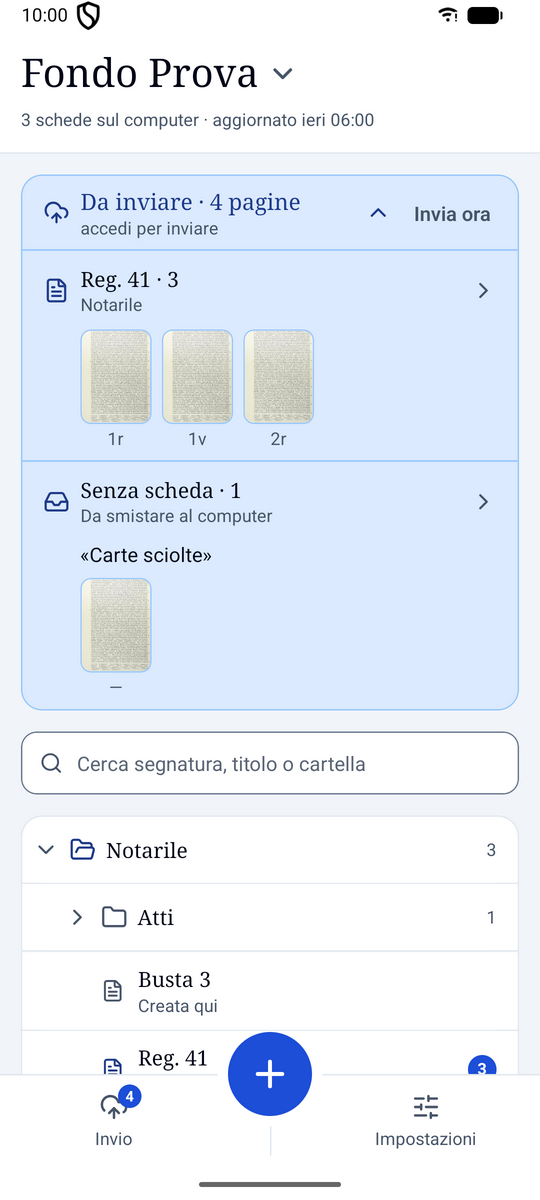
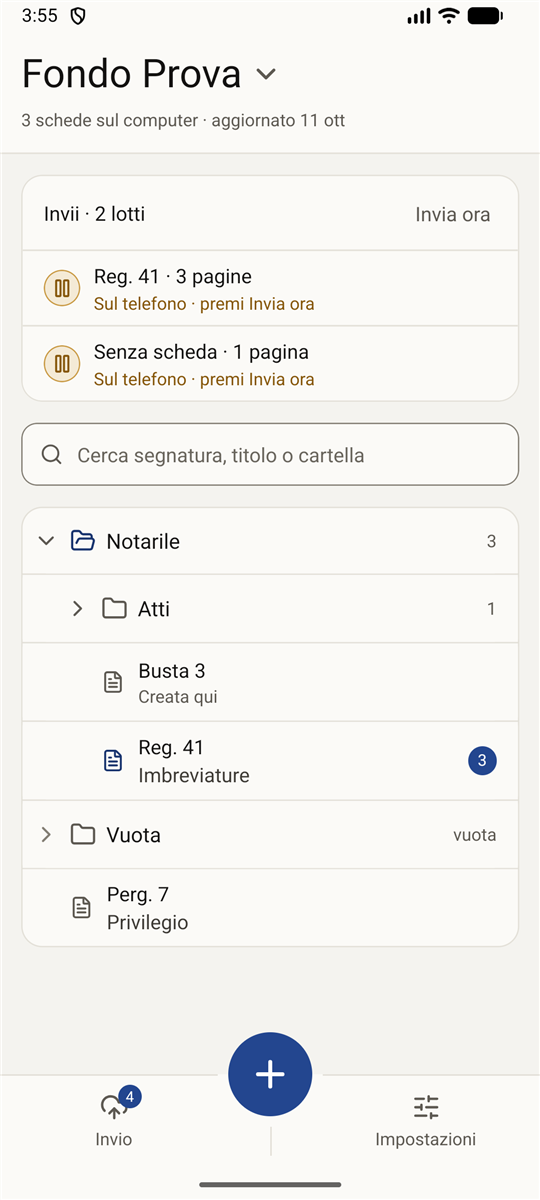
wiki: 4.0.2 e ArchiScanner 0.4.3: cambio account, stato della trascrizione, anteprima del modello, riquadro Invii e invio solo manuale, schermate del telefono aggiornate

diff --git a/docs/wiki/en/archiscanner/scanning.md b/docs/wiki/en/archiscanner/scanning.md
@@ -6,8 +6,8 @@ The main screen shows the folder tree, like the computer's sidebar, empty folder
 Each record shows its shelfmark and, below it, the same secondary line you see on the computer
 (the notary, the author, the title). Folders you open stay open next time.
 
-![The archive on the phone: the «Da inviare» box, the search field and the folder tree with its records](/img/telefono-archivio.png){.light-only .telefono}
-![The archive on the phone: the «Da inviare» box, the search field and the folder tree with its records](/img/telefono-archivio-scuro.png){.dark-only .telefono}
+![The archive on the phone: the «Invii» box, the search field and the folder tree with its records](/img/telefono-archivio.png){.light-only .telefono}
+![The archive on the phone: the «Invii» box, the search field and the folder tree with its records](/img/telefono-archivio-scuro.png){.dark-only .telefono}
 
 The search filters the tree by shelfmark, title or folder: only folders with a match remain,
 already open. The dot next to a record says how many of its pages are still on the phone,
@@ -111,21 +111,32 @@ sent, cannot be moved.
 
 ## Sending
 
-The **Da inviare** (To send) box at the top of the archive counts the pages still on the phone.
-Tap it to see them grouped by record.
+Pages leave **only when you decide**: with the send button at the bottom or with **Invia ora**
+(Send now) in the **Invii** (Uploads) box at the top of the archive. A scan you have just saved
+stays on the phone. On mobile data the app asks for confirmation first, because a day in the
+archive can add up to a few hundred megabytes.
 
-![The «Da inviare» box open: pages waiting, grouped by record, and those without a record](/img/telefono-da-inviare.png){.light-only .telefono}
-![The «Da inviare» box open: pages waiting, grouped by record, and those without a record](/img/telefono-da-inviare-scuro.png){.dark-only .telefono}
+![The «Invii» box: one batch per row, each with its status](/img/telefono-da-inviare.png){.light-only .telefono}
+![The «Invii» box: one batch per row, each with its status](/img/telefono-da-inviare-scuro.png){.dark-only .telefono}
 
-Automatic sending starts **only on Wi-Fi**, because a day in the archive can add up to a few
-hundred megabytes. On mobile data the pages wait; if you need them now, use **Invia ora** (Send
-now). The switch is in **Impostazioni → Invio** (Settings → Sending).
+The **Invii** box shows one row per batch, with its status:
 
-Sending only runs while the app is open. If Android closes it halfway, it picks up again from
-the pages that had not arrived yet when you reopen it.
+- **Sul telefono · premi Invia ora** (On the phone · tap Send now): not sent yet;
+- **In caricamento su Drive · n di m** (Uploading to Drive · n of m): the pages are going up;
+- **Su Drive · in attesa del computer** (On Drive · waiting for the computer): it arrives when the
+  computer with ArchiView is on and receives the scans;
+- **Arrivato sul computer** (Arrived on the computer): the computer has imported them. The row
+  stays visible for a day.
 
-![The app settings: Google account, send only on Wi-Fi, what to do after sending, direct Wi-Fi](/img/telefono-impostazioni.png){.light-only .telefono}
-![The app settings: Google account, send only on Wi-Fi, what to do after sending, direct Wi-Fi](/img/telefono-impostazioni-scuro.png){.dark-only .telefono}
+In the record, the **Dove sono le pagine** (Where the pages are) section shows the same steps, and
+thumbnails that have left carry an **On Drive** label. The first upload to an archive may take the
+computer a few minutes; later uploads arrive sooner.
+
+Sending only runs while the app is open. If Android closes it halfway, press send again after
+reopening it: it picks up from the pages that had not arrived yet.
+
+![The app settings: Google account, what to do after sending, direct Wi-Fi](/img/telefono-impostazioni.png){.light-only .telefono}
+![The app settings: Google account, what to do after sending, direct Wi-Fi](/img/telefono-impostazioni-scuro.png){.dark-only .telefono}
 
 **Dopo l'invio** (After sending) decides what stays on the phone: pages are deleted at once (the
 default), kept for a number of days, or kept for good. Kept pages appear in the record as sent,

diff --git a/docs/wiki/archiscanner/scansionare.md b/docs/wiki/archiscanner/scansionare.md
@@ -7,8 +7,8 @@ cartelle vuote comprese. Ogni scheda ha la segnatura e, sotto, la stessa riga se
 vedi sul computer (il notaio, l'autore, il titolo). Le cartelle che apri restano aperte alla
 volta successiva.
 
-![L'archivio sul telefono: il riquadro «Da inviare», la ricerca e l'albero delle cartelle con le schede](/img/telefono-archivio.png){.light-only .telefono}
-![L'archivio sul telefono: il riquadro «Da inviare», la ricerca e l'albero delle cartelle con le schede](/img/telefono-archivio-scuro.png){.dark-only .telefono}
+![L'archivio sul telefono: il riquadro «Invii», la ricerca e l'albero delle cartelle con le schede](/img/telefono-archivio.png){.light-only .telefono}
+![L'archivio sul telefono: il riquadro «Invii», la ricerca e l'albero delle cartelle con le schede](/img/telefono-archivio-scuro.png){.dark-only .telefono}
 
 La ricerca filtra l'albero per segnatura, titolo o cartella: restano solo le cartelle con un
 risultato, già aperte. Il pallino accanto a una scheda dice quante pagine sono ancora sul
@@ -112,21 +112,31 @@ invio, non si spostano.
 
 ## L'invio
 
-Il riquadro **Da inviare** in cima all'archivio conta le pagine ancora sul telefono. Toccato,
-le mostra raggruppate per scheda.
+Le pagine partono **solo quando lo decidi tu**: col pulsante d'invio in basso o con **Invia ora**
+nel riquadro **Invii** in cima all'archivio. Una scansione appena salvata resta sul telefono. Coi
+dati mobili l'app chiede prima una conferma, perché una giornata in archivio può fare qualche
+centinaio di megabyte.
 
-![Il riquadro «Da inviare» aperto: le pagine in attesa per scheda e quelle senza scheda](/img/telefono-da-inviare.png){.light-only .telefono}
-![Il riquadro «Da inviare» aperto: le pagine in attesa per scheda e quelle senza scheda](/img/telefono-da-inviare-scuro.png){.dark-only .telefono}
+![Il riquadro «Invii»: un lotto per riga, con lo stato di ognuno](/img/telefono-da-inviare.png){.light-only .telefono}
+![Il riquadro «Invii»: un lotto per riga, con lo stato di ognuno](/img/telefono-da-inviare-scuro.png){.dark-only .telefono}
 
-L'invio automatico parte **solo col Wi-Fi**, perché una giornata in archivio può fare qualche
-centinaio di megabyte. Con i dati mobili le pagine aspettano; se ti servono subito usa **Invia
-ora**. L'interruttore è in **Impostazioni → Invio**.
+Il riquadro **Invii** mostra una riga per lotto, con il suo stato:
 
-L'invio procede solo con l'app aperta. Se Android la chiude a metà, alla riapertura riprende
-dalle pagine che non erano ancora arrivate.
+- **Sul telefono · premi Invia ora**: non è ancora partito;
+- **In caricamento su Drive · n di m**: le pagine stanno salendo;
+- **Su Drive · in attesa del computer**: arriva quando il computer con ArchiView è acceso e
+  riceve le scansioni;
+- **Arrivato sul computer**: il computer le ha importate. La riga resta visibile per un giorno.
 
-![Le impostazioni dell'app: account Google, invio solo col Wi-Fi, cosa fare dopo l'invio, Wi-Fi diretto](/img/telefono-impostazioni.png){.light-only .telefono}
-![Le impostazioni dell'app: account Google, invio solo col Wi-Fi, cosa fare dopo l'invio, Wi-Fi diretto](/img/telefono-impostazioni-scuro.png){.dark-only .telefono}
+Nella scheda, la sezione **Dove sono le pagine** mostra gli stessi passi, e le miniature già
+partite hanno l'etichetta **Su Drive**. Al primo invio verso un archivio il computer può metterci
+qualche minuto; gli invii successivi arrivano prima.
+
+L'invio procede solo con l'app aperta. Se Android la chiude a metà, alla riapertura premi di nuovo
+l'invio: riprende dalle pagine che non erano ancora arrivate.
+
+![Le impostazioni dell'app: account Google, cosa fare dopo l'invio, Wi-Fi diretto](/img/telefono-impostazioni.png){.light-only .telefono}
+![Le impostazioni dell'app: account Google, cosa fare dopo l'invio, Wi-Fi diretto](/img/telefono-impostazioni-scuro.png){.dark-only .telefono}
 
 In **Dopo l'invio** decidi cosa resta sul telefono: le pagine si cancellano subito (la scelta
 predefinita), si conservano per un certo numero di giorni o si conservano sempre. Quelle

diff --git a/docs/wiki/cloud/sincronizzazione.md b/docs/wiki/cloud/sincronizzazione.md
@@ -68,10 +68,13 @@ trasferiscono.
 Un archivio su Google Drive non riceve avvisi immediati: controlla da solo se ci sono novità
 **ogni 5 minuti**.
 
-**Cambiare account Google.** Da Opzioni avanzate, **Usa un altro account Google** collega
-quell'account solo a questo archivio. Per un backup personale si apre poi l'elenco degli archivi
-presenti sul Drive del nuovo account: scegline uno, oppure usa **Crea un nuovo backup su questo
-account** per caricarvi dati e allegati da questo computer.
+**Cambiare account Google.** Nelle Impostazioni, accanto all'account collegato, **Cambia
+account** scollega l'account attuale da questo archivio, dopo un avviso, e apre il browser per
+sceglierne un altro; lo stesso fa **Usa un altro account Google** da Opzioni avanzate. Ogni
+accesso a Google mostra la scelta dell'account, anche quando ce n'è uno solo. Per un backup
+personale si apre poi l'elenco degli archivi presenti sul Drive del nuovo account: scegline uno,
+oppure usa **Crea un nuovo backup su questo account** per caricarvi dati e allegati da questo
+computer. I dati sul computer non vengono modificati.
 
 **Drive pieno.** Se lo spazio su Google Drive finisce, gli allegati non vengono caricati: lo
 stato del cloud diventa rosso con il messaggio «Spazio Google Drive esaurito». Libera spazio sul

diff --git a/docs/wiki/en/sync/how-it-works.md b/docs/wiki/en/sync/how-it-works.md
@@ -65,10 +65,13 @@ Google Drive permissions cannot be transferred.
 An archive on Google Drive does not receive instant notifications: it checks for news by itself
 **every 5 minutes**.
 
-**Switching Google account.** In Advanced options, **Use another Google account** links that
-account to this archive only. For a personal backup, the list of archives on the new account's
-Drive opens next: pick one, or use **Create a new backup on this account** to upload data and
-attachments from this computer.
+**Switching Google account.** In Settings, next to the linked account, **Switch account**
+disconnects the current account from this archive, after a warning, and opens the browser to
+choose another one; **Use another Google account** in Advanced options does the same. Every
+Google sign-in shows the account choice, even when there is only one. For a personal backup, the
+list of archives on the new account's Drive opens next: pick one, or use **Create a new backup on
+this account** to upload data and attachments from this computer. The data on this computer is
+not modified.
 
 **Drive full.** If Google Drive runs out of space, attachments are not uploaded: the cloud status
 turns red with the message "Google Drive storage is full". Free up space on Drive and sync again.

diff --git a/docs/wiki/archiscanner/computer.md b/docs/wiki/archiscanner/computer.md
@@ -80,8 +80,11 @@ non compaiono comunque.
 **Una scheda creata sul computer non si vede sul telefono.** L'elenco del telefono si aggiorna
 quando il computer riceve da Drive. Apri il pannello, poi sul telefono riapri l'archivio.
 
-**Le pagine non partono.** Controlla di aver fatto l'accesso a Google. Con i dati mobili e
-l'invio solo col Wi-Fi le pagine aspettano: usa **Invia ora**.
+**Le pagine non partono.** Le pagine partono solo col pulsante d'invio o con **Invia ora**.
+Controlla anche di aver fatto l'accesso a Google.
+
+**Un archivio creato sul computer non compare nella tendina.** Apri la tendina degli archivi:
+l'elenco si aggiorna da solo, e il pulsante accanto al titolo lo ricarica.
 
 **Il computer non trova le pagine.** Devi aprire sul computer l'archivio scelto sul telefono:
 le pagine per gli altri archivi restano su Drive e compaiono in «Per altri archivi».

diff --git a/docs/wiki/en/archiscanner/computer.md b/docs/wiki/en/archiscanner/computer.md
@@ -80,8 +80,11 @@ Hub do not appear in any case.
 **A record created on the computer is missing on the phone.** The phone's list updates when the
 computer receives from Drive. Open the panel, then reopen the archive on the phone.
 
-**Pages are not leaving.** Check that you are signed in to Google. On mobile data, with
-Wi-Fi-only sending, pages wait: use **Invia ora**.
+**Pages are not leaving.** Pages leave only with the send button or with **Invia ora** (Send
+now). Also check that you are signed in to Google.
+
+**An archive created on the computer is missing from the list.** Open the archive list: it
+refreshes on its own, and the button next to its title reloads it.
 
 **The computer does not find the pages.** Open on the computer the archive chosen on the phone:
 pages for other archives stay on Drive and show up under «For other archives».

diff --git a/docs/wiki/archiscanner/installazione.md b/docs/wiki/archiscanner/installazione.md
@@ -45,8 +45,8 @@ inviate e i Documenti. Per aggiornare installa sempre sopra.
 
 ## Disinstallare
 
-Prima di disinstallare, controlla che **Da inviare** sia vuoto: le pagine ancora sul telefono
-non sono arrivate al computer. I Documenti si perdono, a meno che tu non abbia acceso la
+Prima di disinstallare, controlla che in **Invii** nessun lotto sia ancora «Sul telefono»: quelle
+pagine non sono arrivate al computer. I Documenti si perdono, a meno che tu non abbia acceso la
 [copia su Drive](/archiscanner/documenti#copia-su-drive). Poi disinstalla l'app come le altre,
 tenendo premuta l'icona. L'accesso dell'app al tuo Drive si revoca da
 [myaccount.google.com/permissions](https://myaccount.google.com/permissions).

diff --git a/docs/wiki/en/archiscanner/installation.md b/docs/wiki/en/archiscanner/installation.md
@@ -46,8 +46,8 @@ Documents. To update, always install over the old version.
 
 ## Uninstalling
 
-Before uninstalling, check that **To send** is empty: pages still on the phone have not reached
-the computer. Documents are lost unless you turned on the
+Before uninstalling, check that no batch in **Invii** (Uploads) is still «Sul telefono» (On the
+phone): those pages have not reached the computer. Documents are lost unless you turned on the
 [copy to Drive](/en/archiscanner/documents#copy-to-drive). Then uninstall the app like any other,
 by pressing and holding its icon. The app's access to your Drive is revoked at
 [myaccount.google.com/permissions](https://myaccount.google.com/permissions).

diff --git a/docs/wiki/guida/trascrizione.md b/docs/wiki/guida/trascrizione.md
@@ -19,6 +19,11 @@ prima di ogni cambio di carta l'app tiene in memoria quello che hai appena scrit
 
 Se la scheda non ha allegati, si scrive su un'unica trascrizione, come da sempre.
 
+Accanto all'indicazione della carta, un menu ne fissa lo **stato**: Da trascrivere, Trascritta,
+Rivista, Dubbia. C'è anche quando la scheda ha una sola carta. Nella vista tabella la colonna
+**Trascrizione** riassume gli stati delle carte, e un clic sull'intestazione ordina le schede
+dalla meno alla più avanzata; un secondo clic inverte l'ordine.
+
 ## I PDF, una pagina alla volta
 
 Un PDF si apre nello stesso visore delle immagini, con zoom, rotazione e filtri, e si sfoglia

diff --git a/docs/wiki/en/guide/transcription.md b/docs/wiki/en/guide/transcription.md
@@ -20,6 +20,11 @@ every change of folio the app stores what you have just written.
 
 If the record has no attachments, you write a single transcription, as always.
 
+Next to the folio indicator, a menu sets its **status**: To transcribe, Transcribed, Reviewed,
+Doubtful. It is there even when the record has a single folio. In the table view the
+**Transcription** column sums up the folios' statuses, and a click on its header sorts the records
+from least to most advanced; a second click reverses the order.
+
 ## PDFs, one page at a time
 
 A PDF opens in the same viewer as images, with zoom, rotation and filters, and is browsed **page by

diff --git a/docs/wiki/guida/modelli.md b/docs/wiki/guida/modelli.md
@@ -20,7 +20,9 @@ scegliendo i campi che servono.
 I campi compaiono nella scheda nell'ordine in cui li disponi: si trascinano, oppure si spostano
 con le frecce **Sposta a sinistra** e **Sposta a destra** accanto a ciascun campo.
 
-L'interfaccia della scheda si adatta da sola al modello scelto.
+L'interfaccia della scheda si adatta da sola al modello scelto. Nell'editor del modello, il
+pannello di destra mostra il campo selezionato; senza un campo selezionato mostra l'anteprima
+dell'intera scheda, come apparirà compilandola.
 
 ## Il tipo di un campo
 

diff --git a/docs/wiki/en/archiscanner/overview.md b/docs/wiki/en/archiscanner/overview.md
@@ -27,7 +27,7 @@ The phone follows the same structure as the computer: **archive**, then **record
 
 1. Pick the archive and, inside it, the record (or create a new one).
 2. Scan the leaves one after another and number them.
-3. The pages go up to Google Drive as soon as the phone is on Wi-Fi.
+3. Press send: the pages go up to Google Drive, and the **Invii** (Uploads) box follows them.
 4. When you open that archive on the computer, ArchiView downloads them, checks that they
    arrived whole, and adds them to the record.
 
